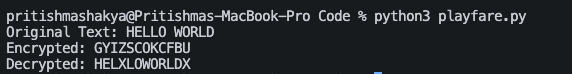
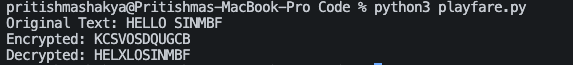
update

Changed region(s): [[0.0, 0.0, 0.9213, 0.9846], [0.6538, 0.9538, 0.6836, 0.9846]]

diff --git a/BIM_Lab_Work/BIM(5th Sem)/IS/Code/vernam_cipher.py b/BIM_Lab_Work/BIM(5th Sem)/IS/Code/vernam_cipher.py
@@ -10,7 +10,7 @@ def vernam_cipher(text_bytes, key_bytes):
     return bytes(a ^ b for a, b in zip(text_bytes, key_bytes))
 
 # --- Example Usage ---
-message = "Hello everyone"
+message = "Hello sinmbf"
 message_bytes = message.encode()
 
 # 1. Generate a key of the exact same length as the message

diff --git a/BIM_Lab_Work/BIM(5th Sem)/IS/Code/playfare.py b/BIM_Lab_Work/BIM(5th Sem)/IS/Code/playfare.py
@@ -69,8 +69,8 @@ def playfair_cipher(text, key, mode='encrypt'):
     return result
 
 # --- Execution Example ---
-my_key = "KEYWORD"
-my_msg = "HELLO WORLD"
+my_key = "LOST"
+my_msg = "HELLO SINMBF"
 
 # Encrypt
 ciphertext = playfair_cipher(my_msg, my_key, mode='encrypt')

diff --git a/BIM_Lab_Work/BIM(5th Sem)/IS/Code/caesar_cipher.py b/BIM_Lab_Work/BIM(5th Sem)/IS/Code/caesar_cipher.py
@@ -21,7 +21,7 @@ def caesar_decrypt(text, shift):
     return caesar_encrypt(text, -shift)
 
 # Example Usage:
-plaintext = "Hello, World!"
+plaintext = "Hello, sinmbf!"
 key = 3
 encrypted_message = caesar_encrypt(plaintext, key)
 print(f"Plaintext: {plaintext}")

diff --git a/BIM_Lab_Work/BIM(5th Sem)/IS/Code/railfence.py b/BIM_Lab_Work/BIM(5th Sem)/IS/Code/railfence.py
@@ -44,7 +44,7 @@ def decrypt_rail_fence(cipher, rails):
     return "".join(result)
 
 # --- Example ---
-message = "HELLOWORLD"
+message = "HELLOSINMBF"
 key = 3
 encrypted = encrypt_rail_fence(message, key)
 decrypted = decrypt_rail_fence(encrypted, key)
